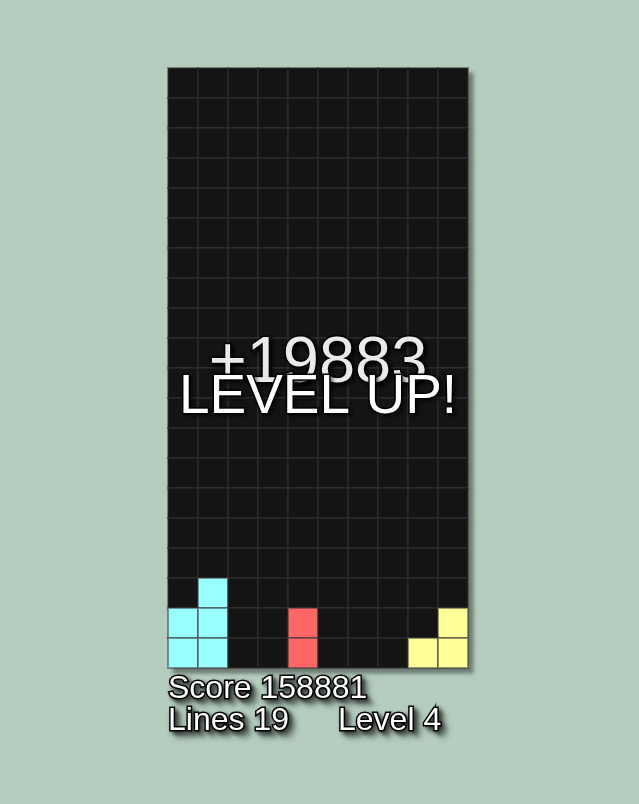
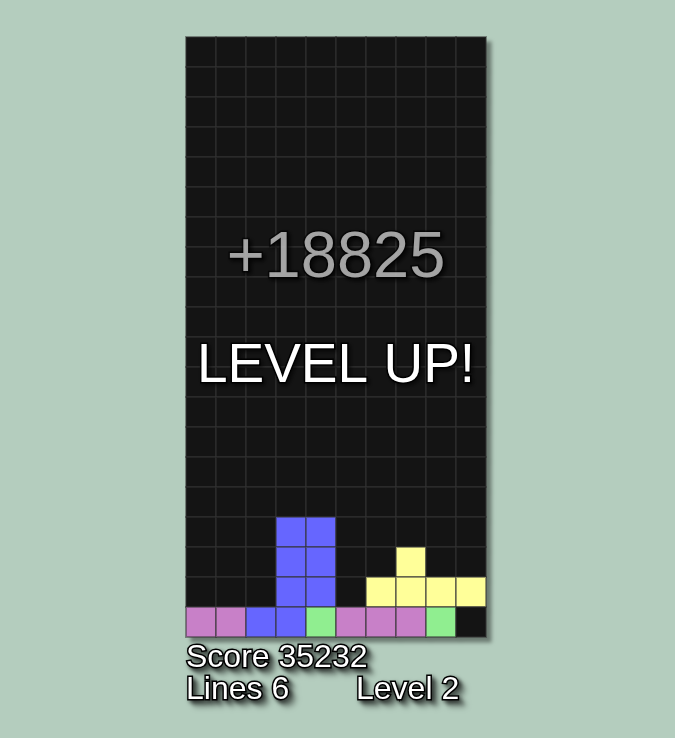
new pic

Changed region(s): [[0.2379, 0.0312, 0.7433, 0.9661], [0.3271, 0.3117, 0.6541, 0.374]]

diff --git a/src/board.js b/src/board.js
@@ -111,11 +111,12 @@ export class Board {
         if (puntosGanados > 0) {
             this.gameState.puntaje += puntosGanados;
             this.gameState.animacionesFlotantes.push({
-                puntos: puntosGanados,
-                x: this.posicion.x + this.ancho / 2,
-                y: this.posicion.y + this.alto / 2,
-                inicio: millis() // Momento en que inicia la animación (para el fade-out)
+                puntos: puntosGanados, // Cantidad de puntos a mostrar
+                x: this.posicion.x + this.ancho / 2, // X centrado en el tablero
+                y: this.posicion.y + this.alto / 2 - 60, // Subimos 100 píxeles desde el centro del tablero
+                inicio: millis() // Tiempo de inicio de la animación
             });
+
         }
     }
 
